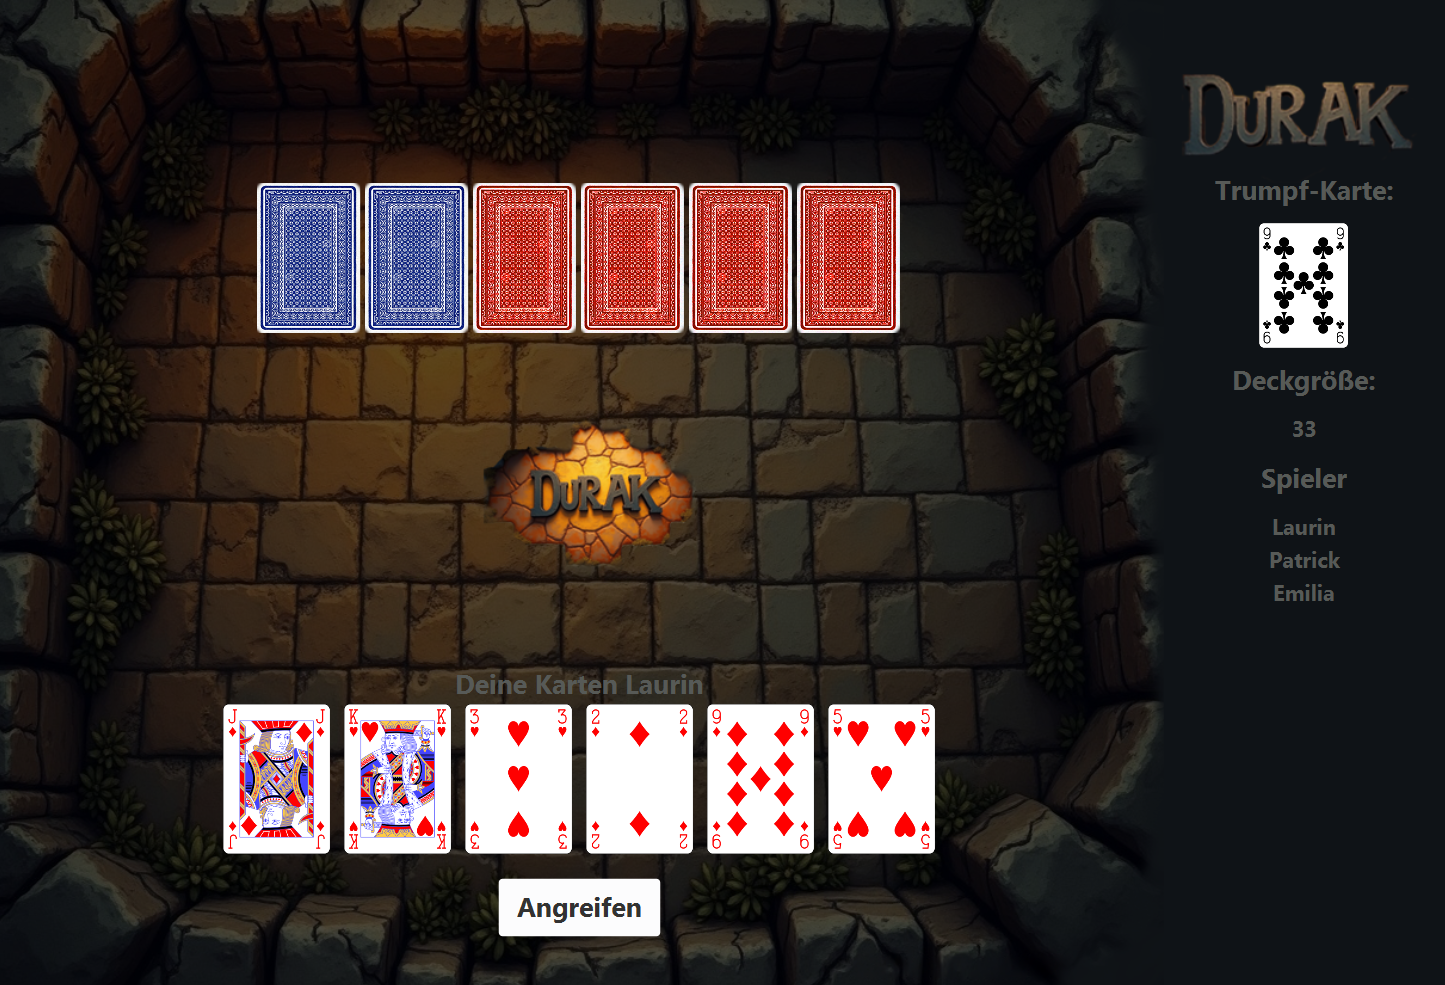
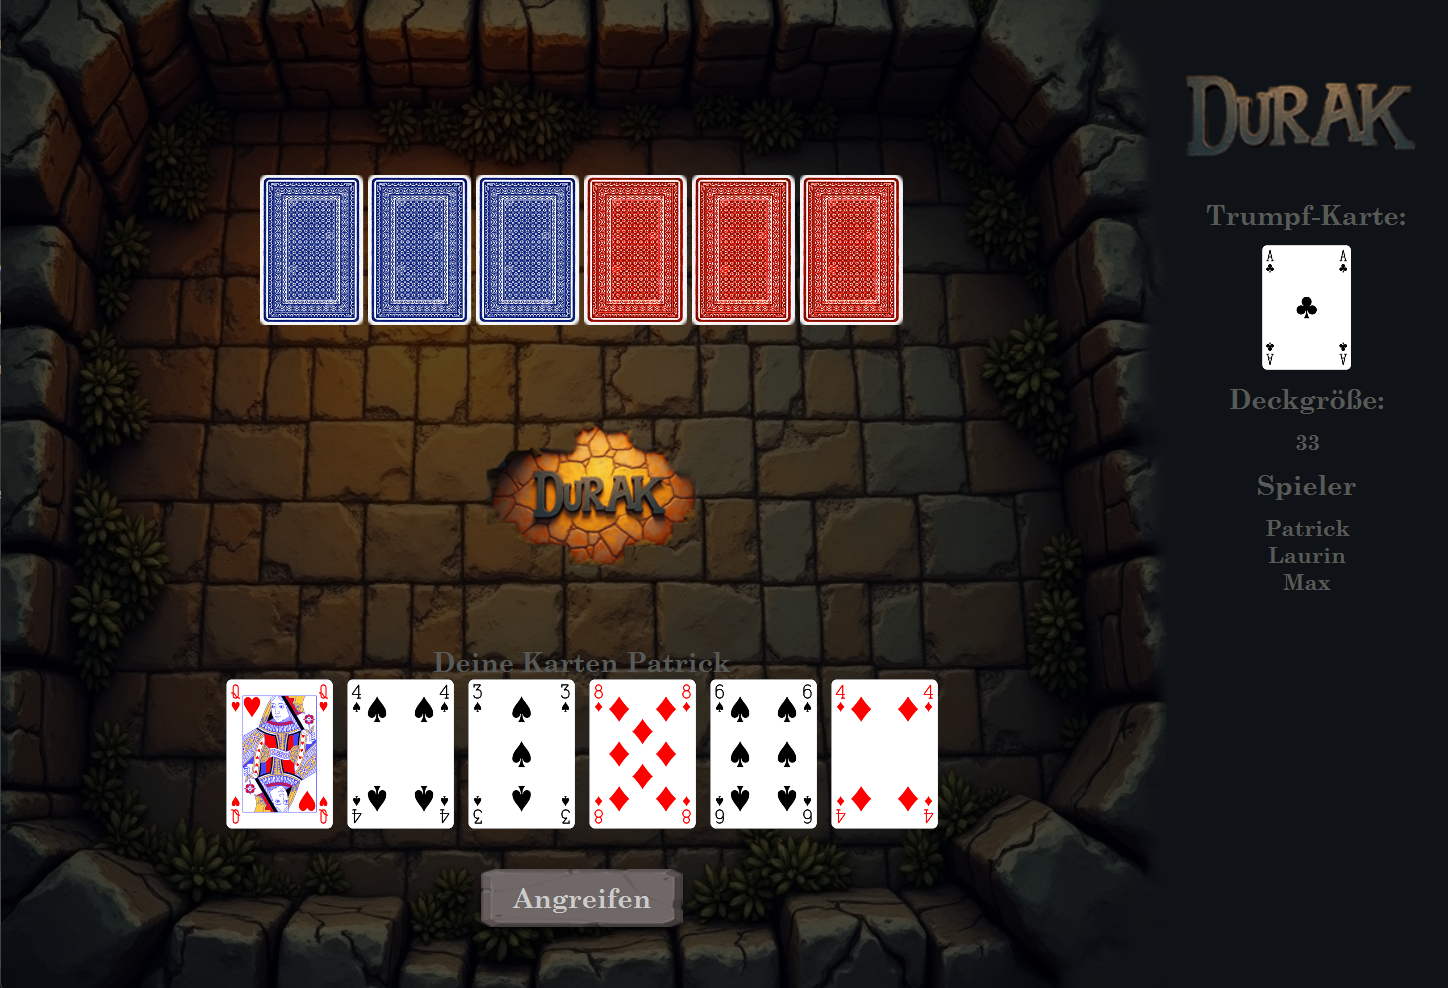
botton design improvment + new ingame screenshots

diff --git a/README.md b/README.md
@@ -64,14 +64,14 @@ This structure ensures a clear separation of concerns, with the `model` handling
 
 ### Text User Interface (TUI)
 
-![TUI Screenshot](src/main/resources/previews/TUI_Ingame1.png)
-![TUI Screenshot](src/main/resources/previews/TUI_Ingame2.png)
+![TUI Screenshot](src/main/resources/previews/tui_ingame1.png)
+![TUI Screenshot](src/main/resources/previews/tui_ingame2.png)
 
 
 ### Graphical User Interface (GUI)
-![GUI Screenshot](src/main/resources/previews/GUI_Startmenu.png)
-![GUI Screenshot](src/main/resources/previews/GUI_Ingame1.png)
-![GUI Screenshot](src/main/resources/previews/GUI_Ingame2.png)
+![GUI Screenshot](src/main/resources/previews/gui_startmenu.png)
+![GUI Screenshot](src/main/resources/previews/gui_ingame1.png)
+![GUI Screenshot](src/main/resources/previews/gui_ingame2.png)
 
 ## How to Run
 
